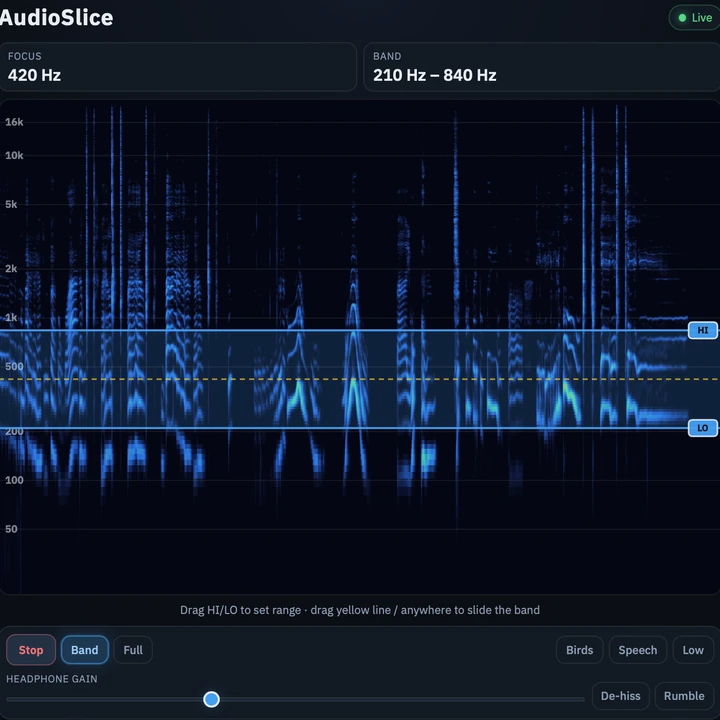
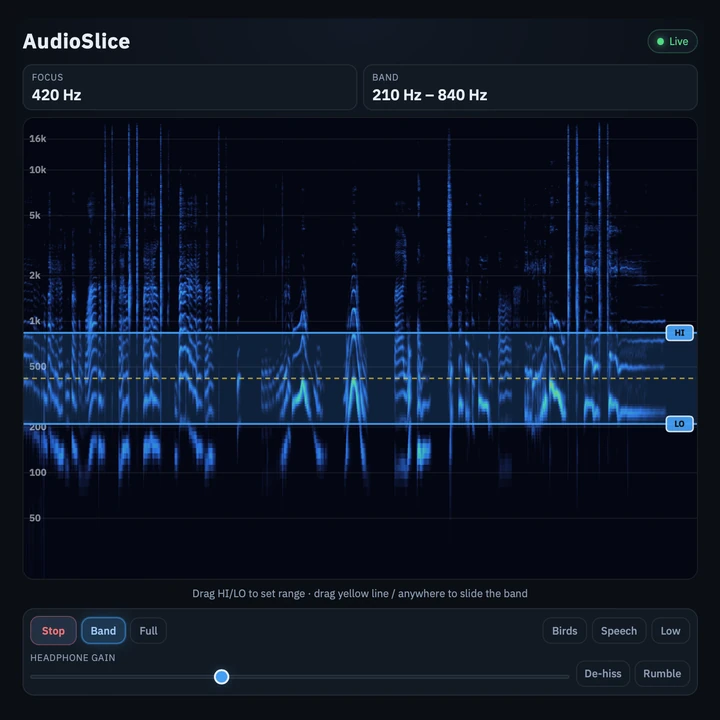
AudioSlice hub card: full title/Live, padded not squeezed

diff --git a/index.html b/index.html
@@ -275,7 +275,7 @@
           <a class="card" href="https://audioslice.markmaga.com" data-app="audioslice-app" aria-label="AudioSlice">
             <span class="card-media">
               <img
-                src="images/audioslice-app.webp?v=2"
+                src="images/audioslice-app.webp?v=3"
                 alt=""
                 width="720"
                 height="720"